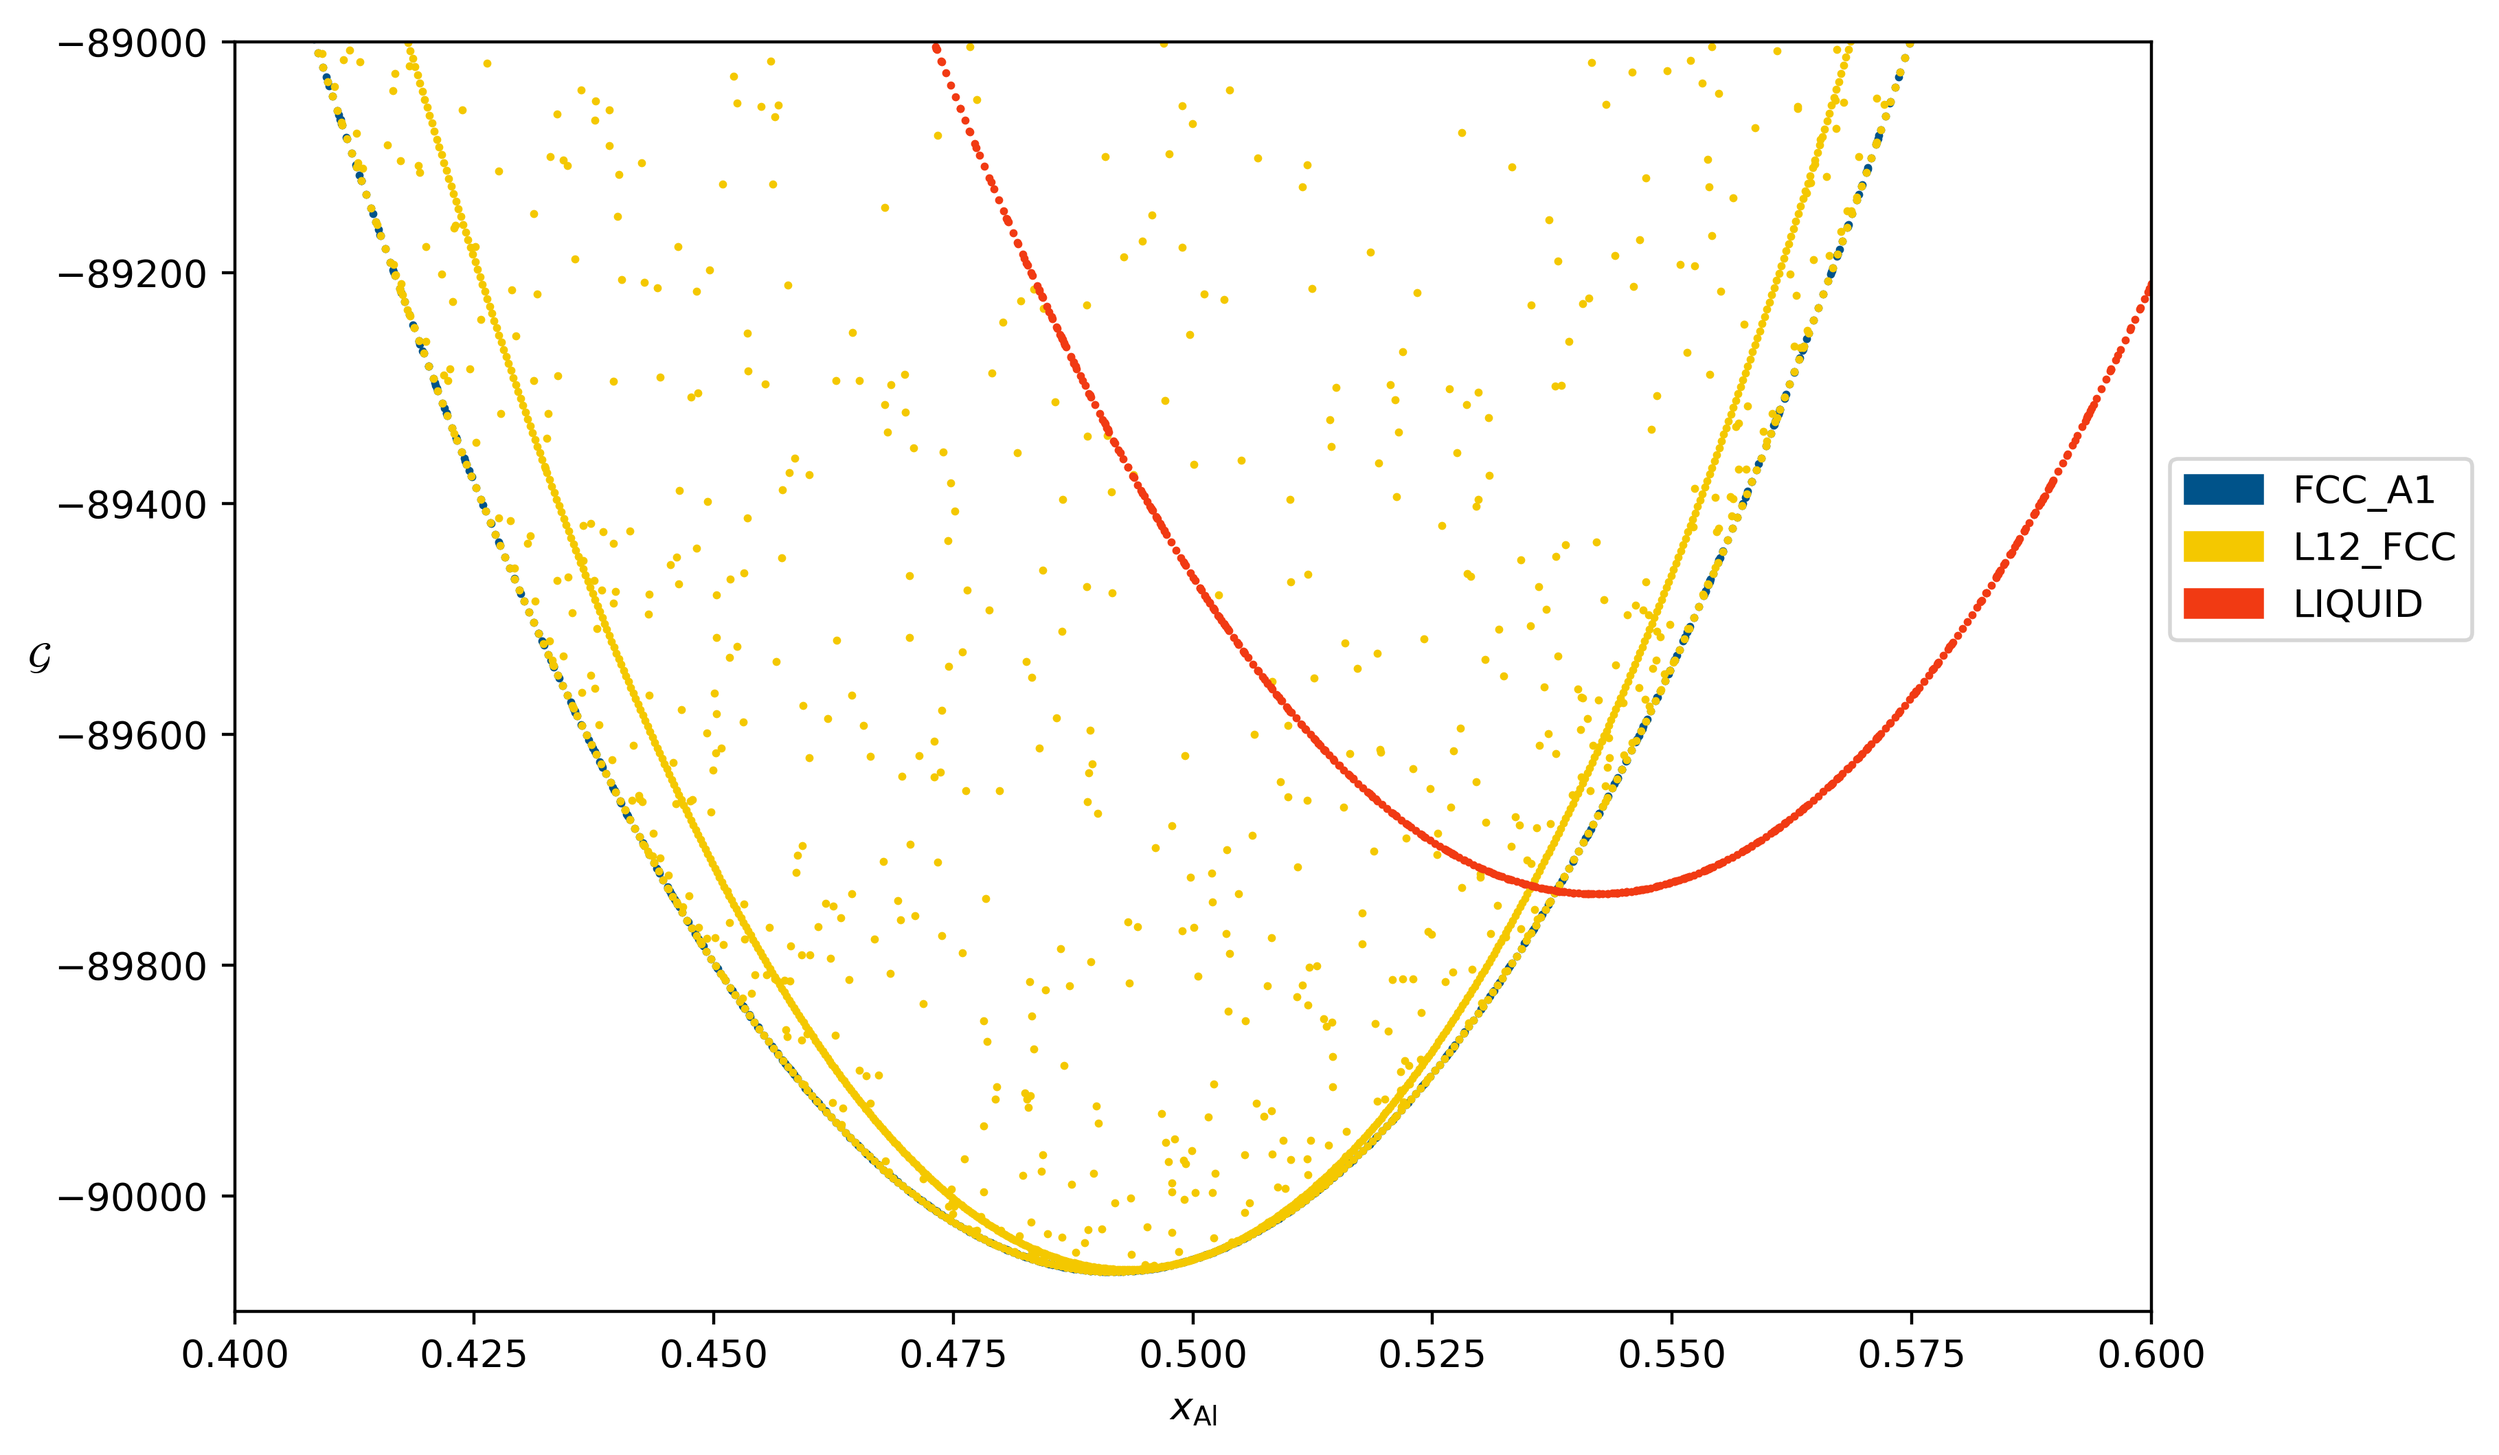
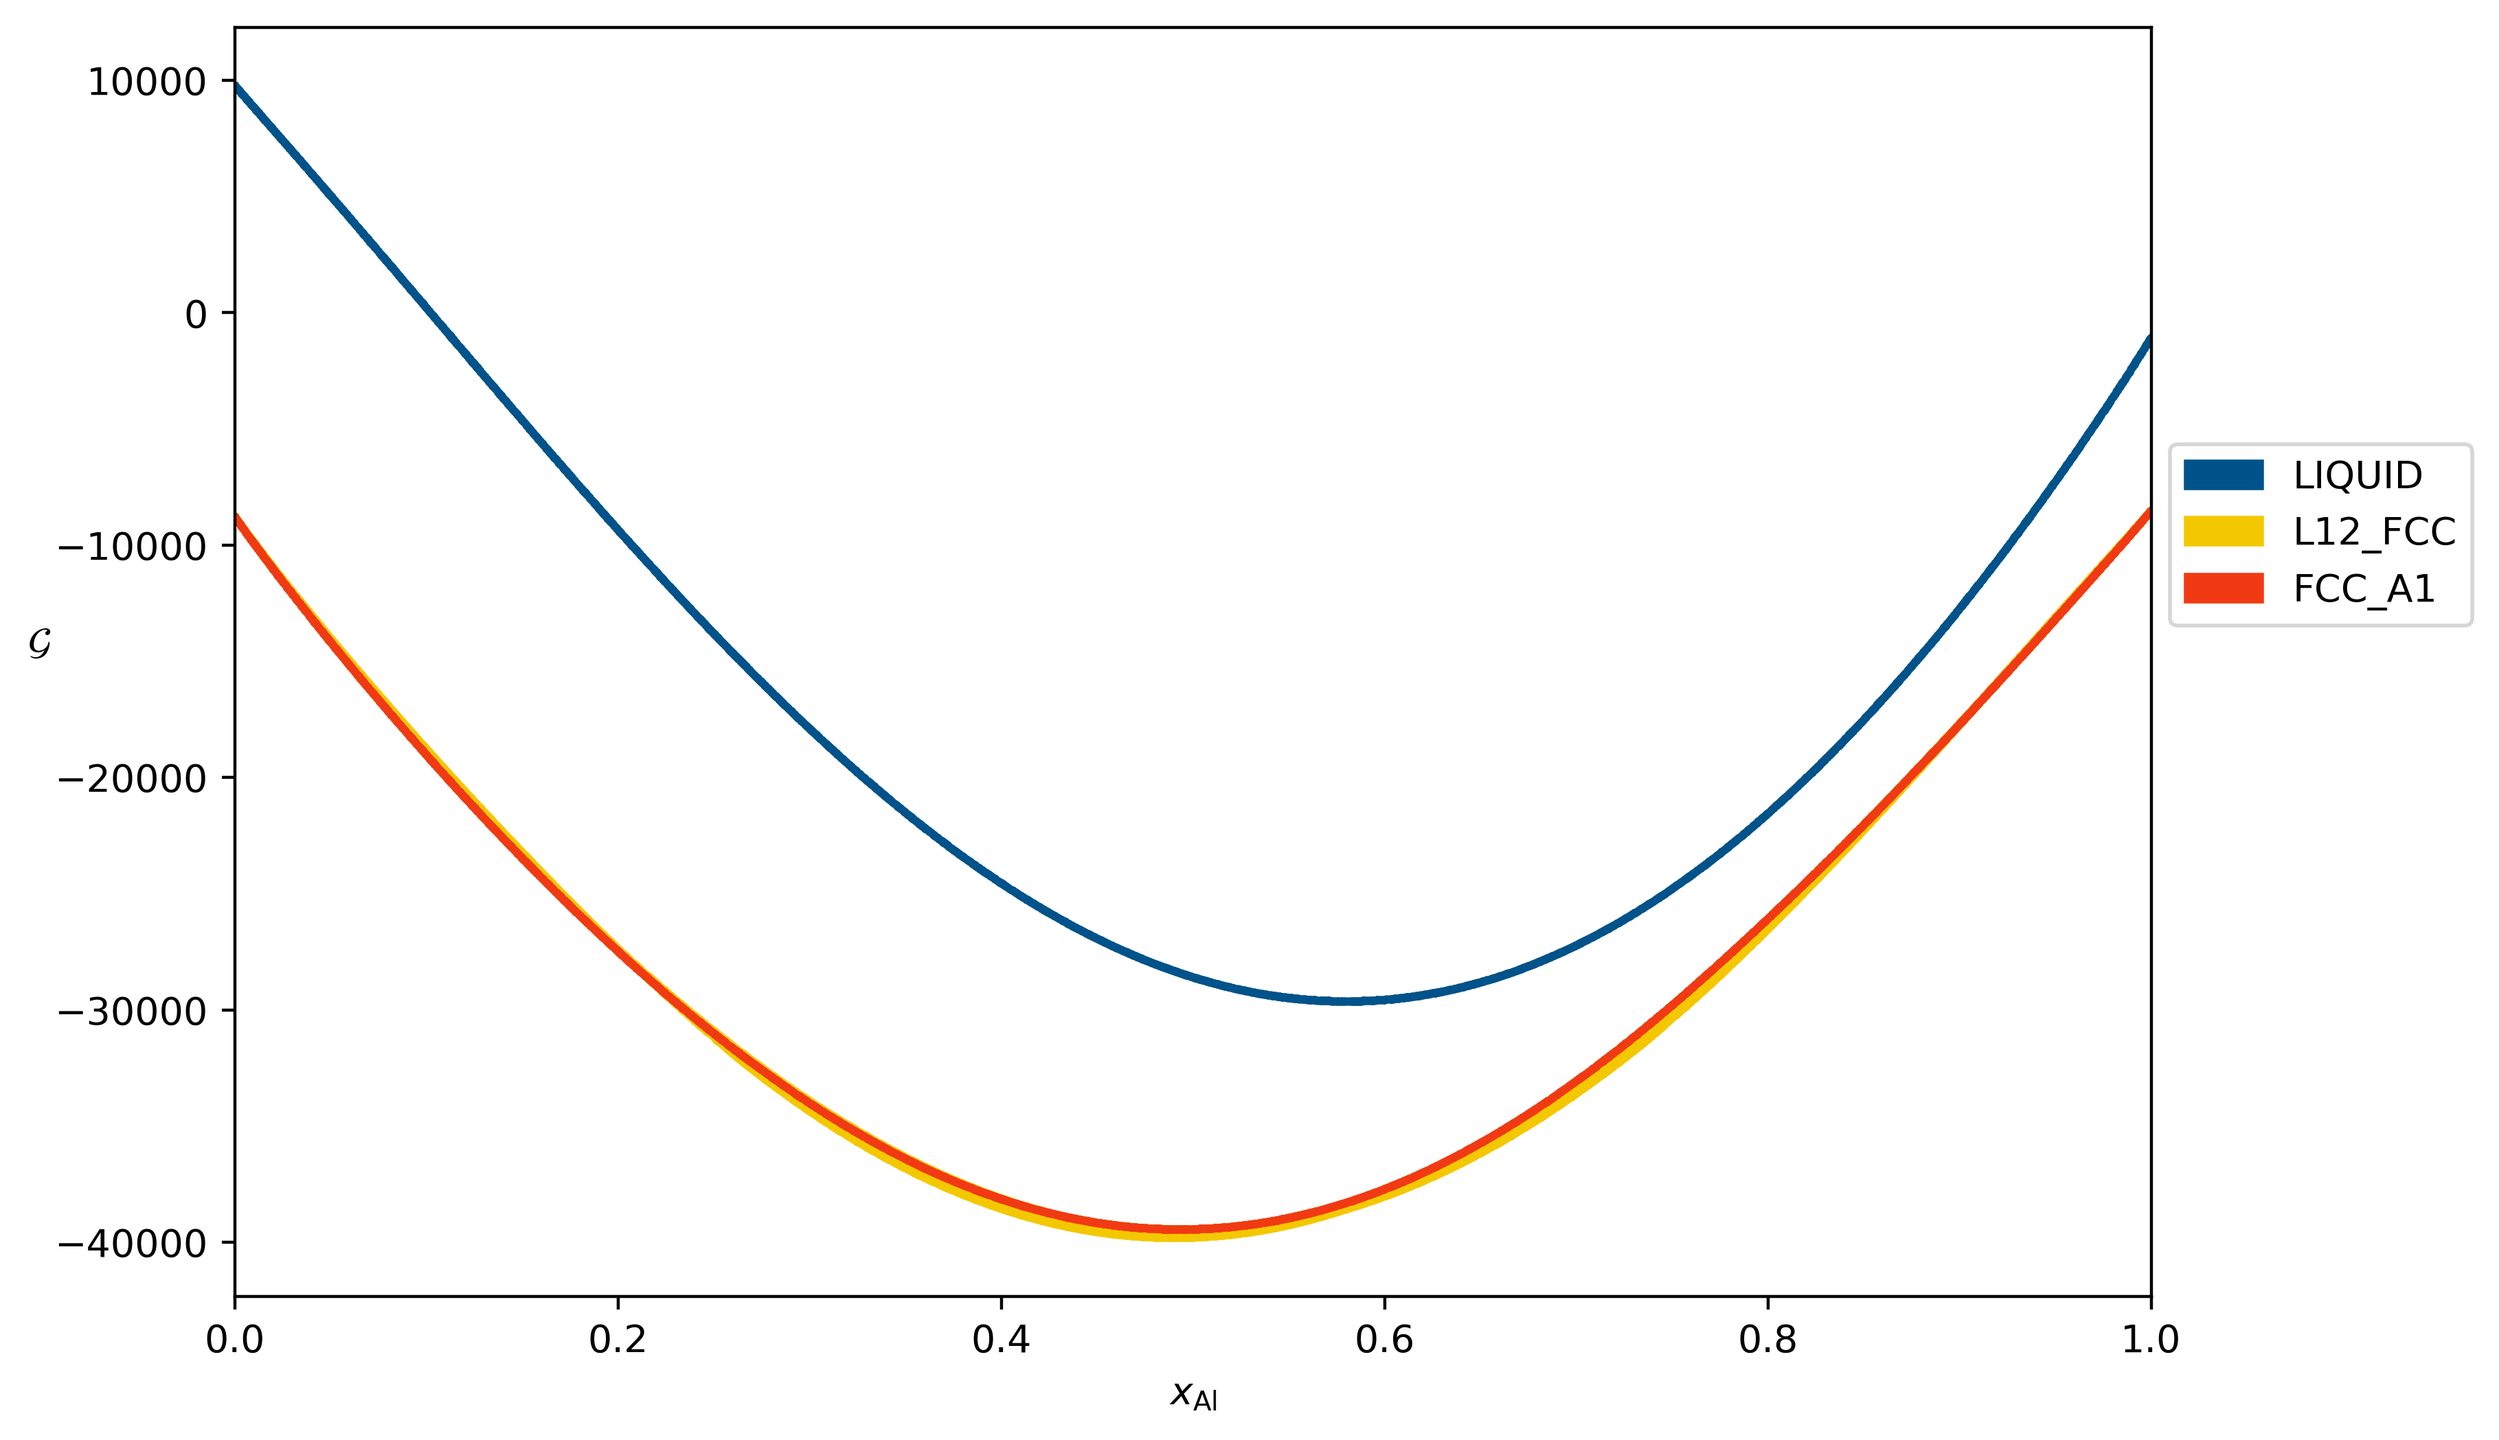
drop T to see coexistence

diff --git a/Al-Co.py b/Al-Co.py
@@ -9,24 +9,10 @@ import numpy as np
 
 tdb = Database("Wang_AlCoW.tdb")
 elems = ["AL", "CO", "VA"]
-temp = 1200
+temp = 300
+atm = 101325
 
-"""
-# Possible phases with ["AL", "CO", "W", "VA"]:
-# >>> ["AL12W", "AL2W", "AL3CO", "AL4W", "AL5CO2", "AL5W", "AL77W23", "AL9CO2", "BCC_B2", "CHI", "HCP_A3", "L12_FCC", "LIQUID", "MAL13CO4", "MU", "OAL13CO4", "YAL13CO4"]
-# Possible phases with ["AL", "CO", "W", "VA"]:
-# >>> ["AL3CO", "AL5CO2", "AL9CO2", "BCC_B2", "CHI", "HCP_A3", "L12_FCC", "LIQUID", "MAL13CO4", "MU", "OAL13CO4", "YAL13CO4"]
-
-elems = sorted(unpack_components(tdb, elems))
-phases = filter_phases(tdb, elems) # ["AL12W"]
-if len(phases) == 0:
-    raise ConditionError("There are no phases in the Database that can be active with components {0}".format(elems))
-else:
-    print("Possible phases:", phases)
-"""
-
-# phases = ["FCC_A1", "L12_FCC", "LIQUID"]
-phases = ["FCC_A1", "L12_FCC", "LIQUID"]
+phases = ["LIQUID", "L12_FCC", "FCC_A1"]
 legend_handles, colorlist = phase_legend(phases)
 
 fig = plt.figure(figsize=(9, 6))
@@ -35,27 +21,27 @@ ax.set_xlabel("$x_{\\mathrm{Al}}$")
 ax.set_ylabel("$\\mathcal{G}$", rotation=0)
 
 for name in phases:
-    result = calculate(tdb, elems, name, P=101325, T=temp, output="GM")
+    result = calculate(tdb, elems, name, P=atm, T=temp, output="GM")
     ax.scatter(result.X.sel(component="AL"), result.GM, marker=".", s=5, color=colorlist[name.upper()])
-    ax.set_xlim((0.4, 0.6))
-    ax.set_ylim((-90100, -89000))
+    ax.set_xlim((0, 1))
+    #ax.set_ylim((-90100, -89000))
     ax.legend(handles=legend_handles, loc="center left", bbox_to_anchor=(1, 0.6))
 
 plt.savefig("diagram.png", dpi=400, bbox_inches="tight")
 plt.close()
 
-eqm = equilibrium(tdb, elems, "L12_FCC", {v.X("AL"): (8e-13,1.2e-12,1e-15), v.T: temp, v.P: 101325},
+eqm = equilibrium(tdb, elems, "L12_FCC", {v.X("AL"): (0, 1, 0.01), v.T: temp, v.P: atm},
                                     output="degree_of_ordering")
-
-print(eqm)
 
 plt.title("Al-Co: Degree of FCC ordering [T={0} K]".format(temp))
 plt.xlabel("$x_{\\mathrm{Al}}$")
 plt.ylabel("Degree of ordering")
-# Generate a list of all indices where B2 is stable
+
+# Generate a list of all indices where L12 is stable
 phase_indices = np.nonzero(eqm.Phase.values == "L12_FCC")
 # phase_indices[2] refers to all composition indices
 # We know this because pycalphad always returns indices in order like P, T, X
-plt.semilogx(np.take(eqm["X_AL"].values, phase_indices[2]), eqm["degree_of_ordering"].values[phase_indices])
+plt.plot(np.take(eqm["X_AL"].values, phase_indices[2]), eqm["degree_of_ordering"].values[phase_indices])
+plt.xlim([0,1])
 plt.savefig("disorder.png", dpi=400, bbox_inches="tight")
 plt.close()
